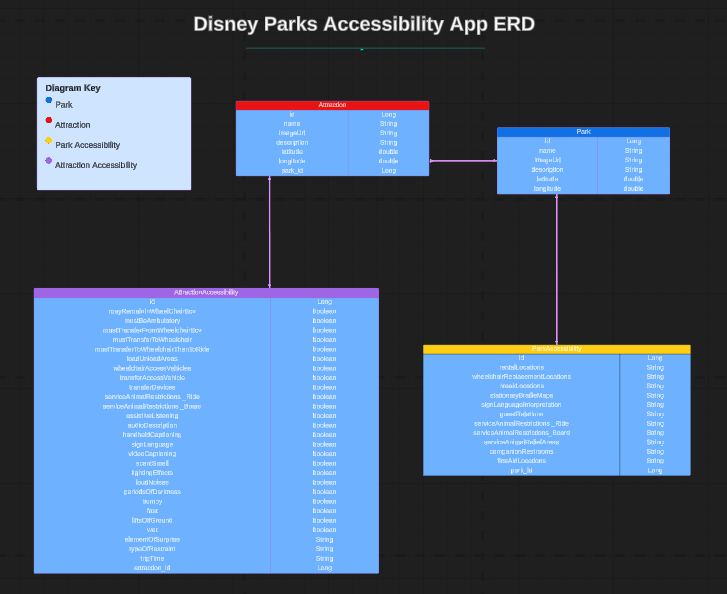
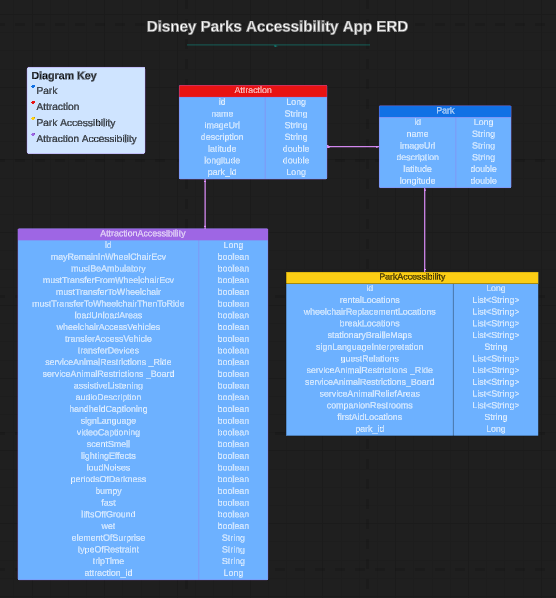
Change ERD image and add attributes to ParkAccessibility model

diff --git a/src/main/java/org/example/model/ParkAccessibility.java b/src/main/java/org/example/model/ParkAccessibility.java
@@ -2,6 +2,7 @@ package org.example.model;
 
 import com.fasterxml.jackson.annotation.JsonIgnore;
 import jakarta.persistence.*;
+import java.util.List;
 
 
 @Entity
@@ -14,7 +15,13 @@ public class ParkAccessibility {
     private Long id;
 
     @Column
-    private
+    private List<String> rentalLocations;
+
+    @Column
+    private List<String> wheelchairReplacementLocations;
+
+    @Column
+    private List<String>
 
     // This links the table representing the ParkAccessibility model to the table representing the Park model
     @JsonIgnore // This prevents a stack overflow/API crashing from parks and parkAccessibility calling each other back and forth
